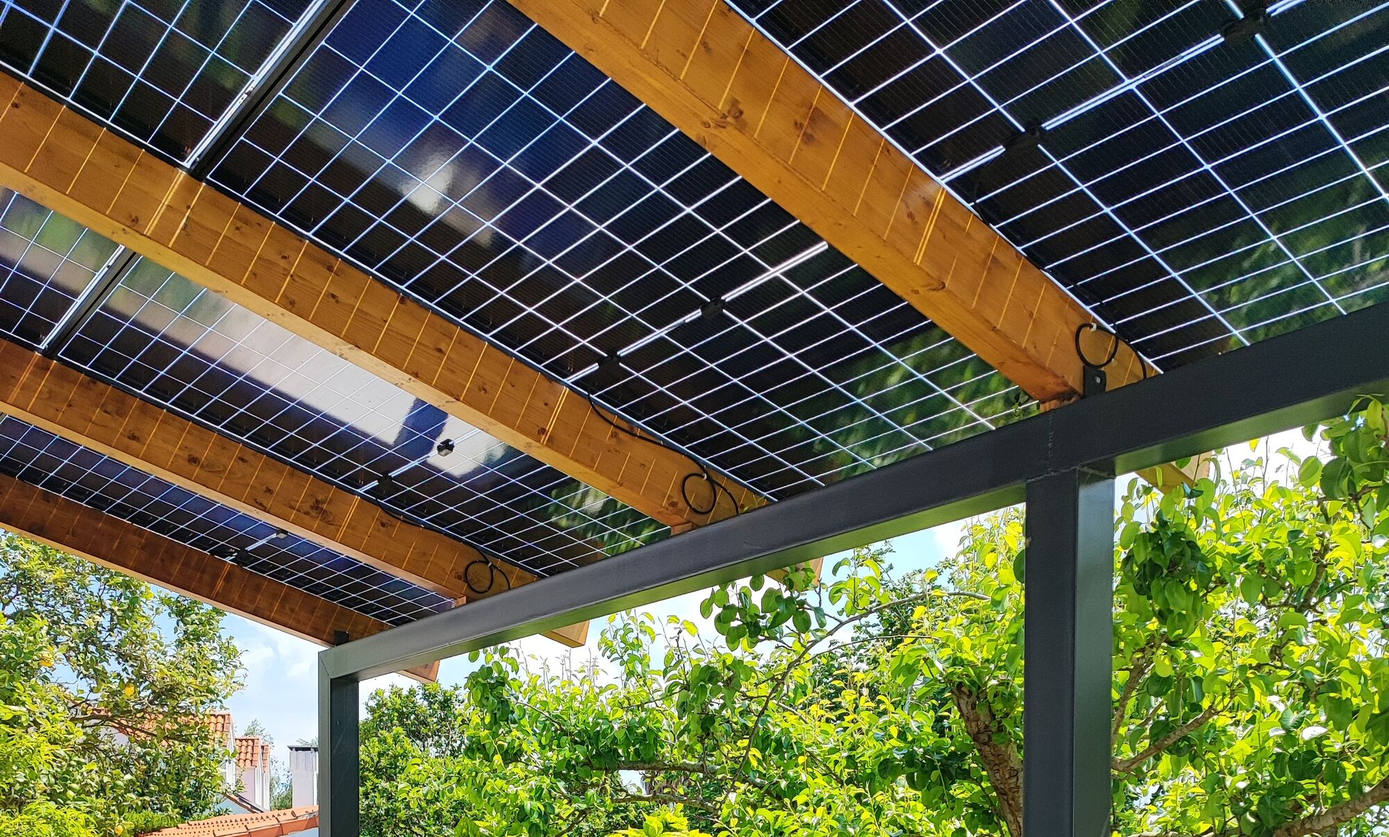
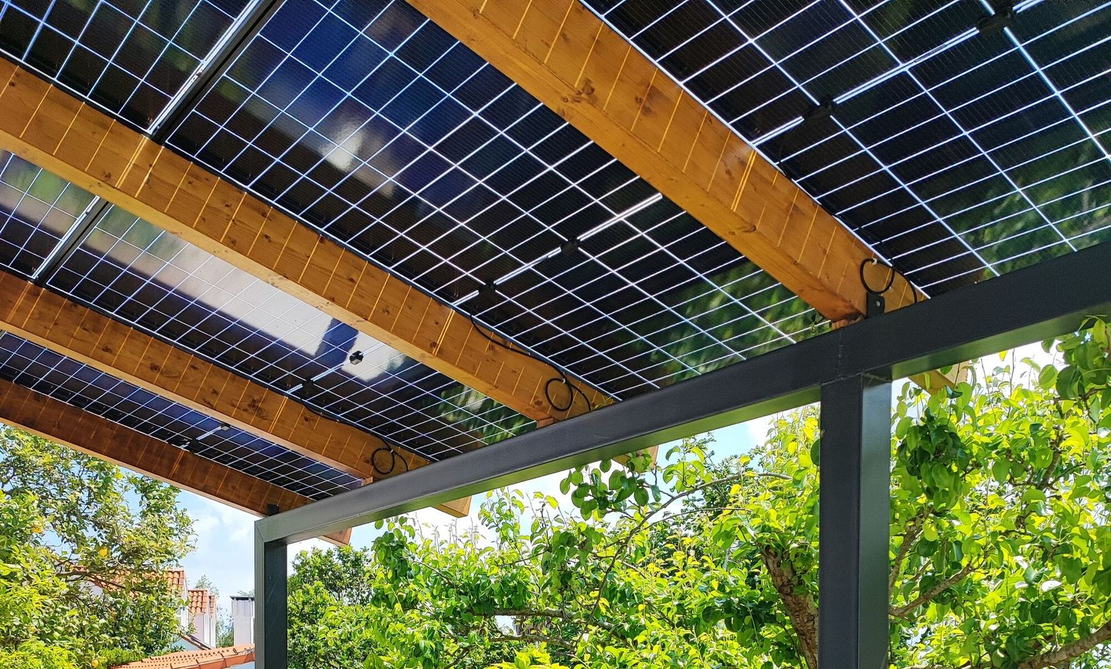
SEO: clean sitemap, structured data, home with latest content, Spanish 404

diff --git a/_includes/head/custom.html b/_includes/head/custom.html
@@ -7,3 +7,15 @@
   {%- assign es_page = hl | where_exp: 'p', "p.lang != 'en'" | first -%}
   {%- if es_page -%}<link rel="alternate" hreflang="x-default" href="{{ es_page.url | absolute_url }}">{%- endif -%}
 {%- endif -%}
+
+<meta name="twitter:card" content="summary_large_image">
+{%- if page.url == '/' or page.url == '/en/' -%}
+<script type="application/ld+json">
+{"@context":"https://schema.org","@type":"WebSite","name":"davidtor.es","url":{{ site.url | jsonify }},"inLanguage":{% if page.lang == 'en' %}"en"{% else %}"es"{% endif %},"author":{"@type":"Person","name":"David Tortajada"}}
+</script>
+{%- endif -%}
+{%- if page.date and page.url != '/home-lab/' -%}
+<script type="application/ld+json">
+{"@context":"https://schema.org","@type":"BlogPosting","headline":{{ page.title | jsonify }},"description":{{ page.excerpt | strip_html | strip_newlines | truncate: 300 | jsonify }},"datePublished":{{ page.date | date_to_xmlschema | jsonify }},"dateModified":{{ page.last_modified_at | default: page.date | date_to_xmlschema | jsonify }},"inLanguage":"es","keywords":{{ page.tags | join: ", " | jsonify }},"image":{{ page.header.og_image | default: page.header.overlay_image | default: site.og_image | absolute_url | jsonify }},"mainEntityOfPage":{"@type":"WebPage","@id":{{ page.url | absolute_url | jsonify }}},"author":{"@type":"Person","name":"David Tortajada","url":{{ '/about/' | absolute_url | jsonify }}}}
+</script>
+{%- endif -%}

diff --git a/_pages/cv-current.html b/_pages/cv-current.html
@@ -1,4 +1,7 @@
 ---
+noindex: true
+sitemap: false
+search: false
 layout: single
 permalink: /cv-current/
 ---

diff --git a/_pages/index.md b/_pages/index.md
@@ -2,8 +2,8 @@
 ref: home
 description: "David Tortajada, Senior Java Developer especializado en e-commerce (Intershop, Spring Boot). Web personal, experiencia y proyecto solar DIY."
 layout: single
-title: "David Tortajada"
-excerpt: "Senior Java Developer & E-commerce Consultant"
+title: "David Tortajada, Senior Java Developer"
+excerpt: "E-commerce con Intershop · Spring Boot · Home Assistant y energía solar DIY"
 permalink: /
 
 header:
@@ -62,14 +62,30 @@ Durante mi carrera he trabajado en proyectos de alto impacto:
 
 ---
 
-## 🧩 Últimos contenidos
+## 🧩 Lo último que he publicado
 
-Aquí comparto lo que estoy haciendo últimamente: aprendizaje, pruebas técnicas y experiencias reales.
-* **Modern Java:** Refrescando patrones de diseño y nuevas funcionalidades de Java 17 para arquitecturas de microservicios.
-* **Energy Intelligence:** Optimizando el consumo de mi instalación solar mediante scripts personalizados en Home Assistant y monitorización de datos en tiempo real.
-* **Clean Code:** Siempre priorizando soluciones legibles sobre soluciones complejas.
+Aprendizaje, pruebas técnicas y experiencias reales: energía solar, domótica con Home Assistant y programación.
 
-👉 [Ver la serie Solar Home →](/home-lab/)
+<div class="entries-list">
+  {% for post in site.posts limit: 4 %}
+    {% include archive-single.html type="list" %}
+  {% endfor %}
+</div>
+
+👉 [Ver todos los artículos →](/blog/)
+
+### ☀ Serie Solar Home
+
+Cómo he montado mi porche solar de 5,28 kWp con baterías LiFePO₄ DIY en Cantabria, capítulo a capítulo, con [datos reales de producción](/solar-data/).
+
+<div class="entries-list">
+  {% assign capitulos = site.home-lab | where_exp: "d", "d.url != '/home-lab/'" | sort: "date" | reverse %}
+  {% for post in capitulos limit: 3 %}
+    {% include archive-single.html type="list" %}
+  {% endfor %}
+</div>
+
+👉 [Ver la serie completa →](/home-lab/)
 
 ---
 

diff --git a/_pages/en/index.md b/_pages/en/index.md
@@ -4,8 +4,8 @@ lang: en
 locale: en-US
 description: "David Tortajada, Senior Java Developer specialized in e-commerce (Intershop, Spring Boot). Personal site, experience and DIY solar project."
 layout: single
-title: "David Tortajada"
-excerpt: "Senior Java Developer & E-commerce Consultant"
+title: "David Tortajada, Senior Java Developer"
+excerpt: "E-commerce with Intershop · Spring Boot · Home Assistant and DIY solar"
 permalink: /en/
 author_profile: true
 header:
@@ -66,10 +66,19 @@ Throughout my career I've worked on high-impact projects:
 
 ## 🧩 Latest content
 
-Here is what I've been up to lately: learning, technical experiments and real-world experience.
-* **Modern Java:** Refreshing design patterns and new features of Java 17 for microservice architectures.
-* **Energy Intelligence:** Optimizing the consumption of my solar installation with custom Home Assistant scripts and real-time data monitoring.
-* **Clean Code:** Always favoring readable solutions over complex ones.
+Learning, technical experiments and real-world experience on solar energy, Home Assistant and programming. The articles are written in Spanish.
+
+<div class="entries-list">
+  {% for post in site.posts limit: 4 %}
+    {% include archive-single.html type="list" %}
+  {% endfor %}
+</div>
+
+👉 [All articles (in Spanish) →](/blog/)
+
+### ☀ Solar Home series
+
+How I built my 5.28 kWp solar porch with DIY LiFePO₄ batteries in Cantabria, with [real production data](/en/solar-data/).
 
 👉 [Read the Solar Home series (in Spanish) →](/home-lab/)
 

diff --git a/_pages/404.md b/_pages/404.md
@@ -1,13 +1,17 @@
 ---
 layout: single
-title: "Page Not Found"
-excerpt: "Page not found. Your pixels are in another canvas."
+title: "Página no encontrada"
+excerpt: "La página que buscas no existe o ha cambiado de sitio."
 sitemap: false
+noindex: true
 permalink: /404.html
 ---
 
-Looks like this page is gone…
+No encuentro esa página. Puede que la dirección esté mal escrita o que el contenido se haya movido.
 
-![](/assets/images/404.webp)
+Algunos sitios por donde seguir:
 
-Maybe the broccoli ate it 🥦. Go back [home](/) and try again.
+* [Inicio](/)
+* [Serie Solar Home](/home-lab/): mi instalación solar DIY con baterías, capítulo a capítulo.
+* [Blog](/blog/): domótica, energía solar, programación e IA.
+* [Datos de mi instalación solar](/solar-data/)

diff --git a/_pages/contact.md b/_pages/contact.md
@@ -9,13 +9,19 @@ author_profile: true
 
 Actualmente estoy abierto a nuevas oportunidades como **Senior Java Developer** o **Consultor E-commerce**, especialmente en roles remotos o en Cantabria.
 
-![](/assets/images/me.jpg)
+![David Tortajada](/assets/images/me.jpg)
 
 ### Canales de comunicación
 
 * **LinkedIn:** [linkedin.com/in/davidtor](https://www.linkedin.com/in/davidtor) (Respondo rápido por aquí).
 * **Email:** [mail@davidtor.es](mailto:mail@davidtor.es)
 * **GitHub:** [github.com/lomuko](https://github.com/lomuko) (Para ver en qué estoy trabajando ahora).
+
+---
+
+### ¿Necesitas una web o una app a medida?
+
+Para proyectos de desarrollo web y aplicaciones a medida para empresas, mira [Mareaweb](https://mareaweb.es).
 
 ---
 

diff --git a/_home-lab/00-home-lab.md b/_home-lab/00-home-lab.md
@@ -8,13 +8,13 @@ sidebar:
   nav: "home_lab_nav"
 date: 2026-03-14
 tags: [solar, homelab, energia, fotovoltaica, autoconsumo]
-excerpt: "Instalacion de porche solar en casa y baterias DIY"
+excerpt: "Serie completa sobre mi instalación solar DIY en Cantabria: porche fotovoltaico de 5,28 kWp, baterías LiFePO₄ caseras, inversor Deye y Home Assistant."
 toc: true
 permalink: /home-lab/
 ---
 
 ## El Sistema
-Instalación de 5,4 kWp (12 paneles) con baterías DIY. Automatización integral mediante **Home Assistant**.
+Instalación de 5,28 kWp (12 paneles de 440 W) con baterías DIY. Automatización integral mediante **Home Assistant**.
 
 ## Stack Tecnológico
 * **Control:** Home Assistant OS en Raspberry Pi / NUC.

diff --git a/_home-lab/05-price.md b/_home-lab/05-price.md
@@ -1,6 +1,6 @@
 ---
 layout: single
-title: "Solar Home-Lab V: Price"
+title: "Solar Home-Lab V: Cuánto cuesta una instalación solar DIY con baterías"
 header:
   overlay_image: /assets/images/solar/solar5.jpg
   overlay_filter: 0.5
@@ -9,7 +9,7 @@ sidebar:
 date: 2026-04-12
 collection: porche-solar
 tags: [solar, homelab, energia, fotovoltaica, autoconsumo]
-excerpt: "Cómo pasé de querer un simple porche a diseñar un sistema solar completo en Cantabria."
+excerpt: "Paneles, batería LiFePO₄, inversor híbrido y estructura del porche: lo que me costó cada pieza de mi instalación fotovoltaica, sin maquillar."
 toc: true
 toc_sticky: true
 slug: price

diff --git a/_pages/en/contact.md b/_pages/en/contact.md
@@ -11,7 +11,7 @@ author_profile: true
 
 I'm currently open to new opportunities as a **Senior Java Developer** or **E-commerce Consultant**, especially in remote roles or in Cantabria.
 
-![](/assets/images/me.jpg)
+![David Tortajada](/assets/images/me.jpg)
 
 ### Ways to reach me
 

diff --git a/_pages/category-archive.md b/_pages/category-archive.md
@@ -1,4 +1,7 @@
 ---
+noindex: true
+sitemap: false
+search: false
 title: "Posts by Category"
 layout: categories
 permalink: /categories/

diff --git a/_pages/tag-archive.md b/_pages/tag-archive.md
@@ -1,4 +1,7 @@
 ---
+noindex: true
+sitemap: false
+search: false
 title: "Posts por etiqueta"
 permalink: /tags/
 layout: single

diff --git a/_pages/posts.md b/_pages/posts.md
@@ -1,4 +1,7 @@
 ---
+noindex: true
+sitemap: false
+search: false
 title: "Todos los posts"
 permalink: /posts/
 layout: single
